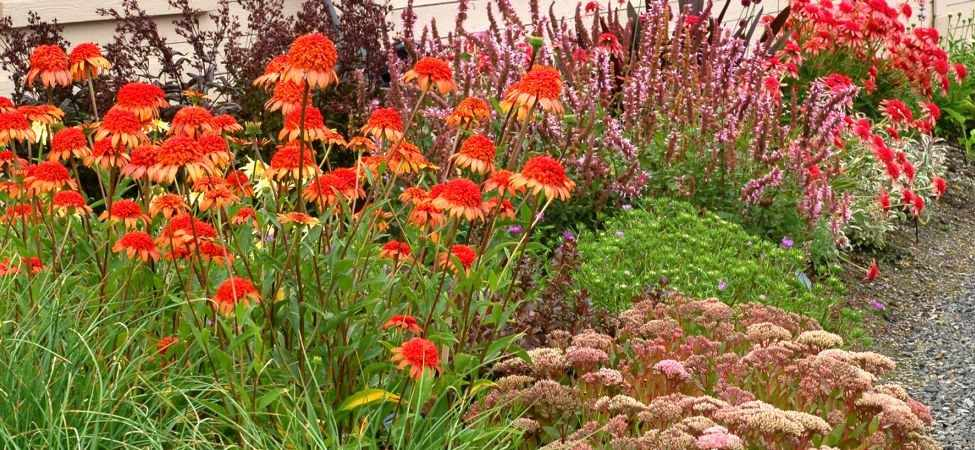
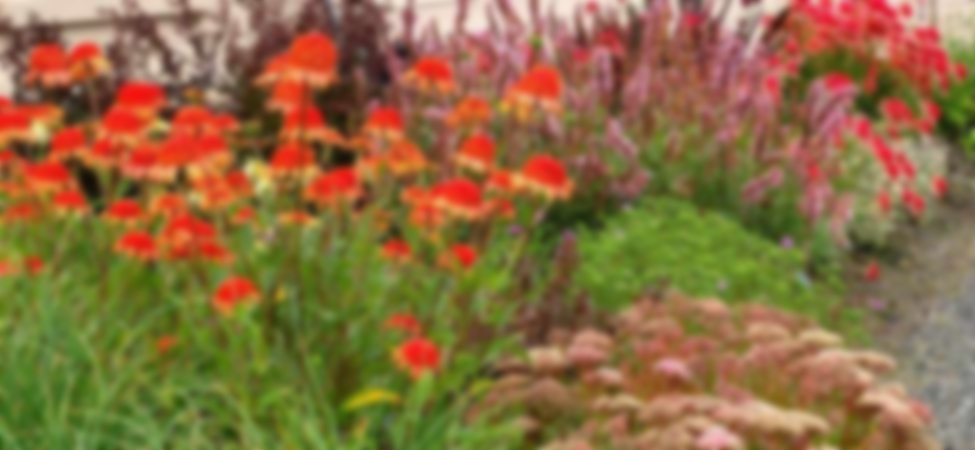
Photo edit: Made slider images blurry to better read text

diff --git a/app/views/home.html b/app/views/home.html
@@ -26,7 +26,7 @@
                                     <span class="promo-block"></span>
                                 </figure>
                                 <div class="promo-info">
-                                    <h3 class="promo-title">Roses</h3>
+                                    <h3 class="promo-title">TEST</h3>
                                     <p>&bowtie;</p>
                                 </div>
                                 <!--/.promo-info -->

diff --git a/app/views/category.html b/app/views/category.html
@@ -1,4 +1,6 @@
         <!-- DETAIL PRODUCT CONTENT -->
+<p class align="center"> hi </p>
+
         <section class="content-wrapper">
 
 
